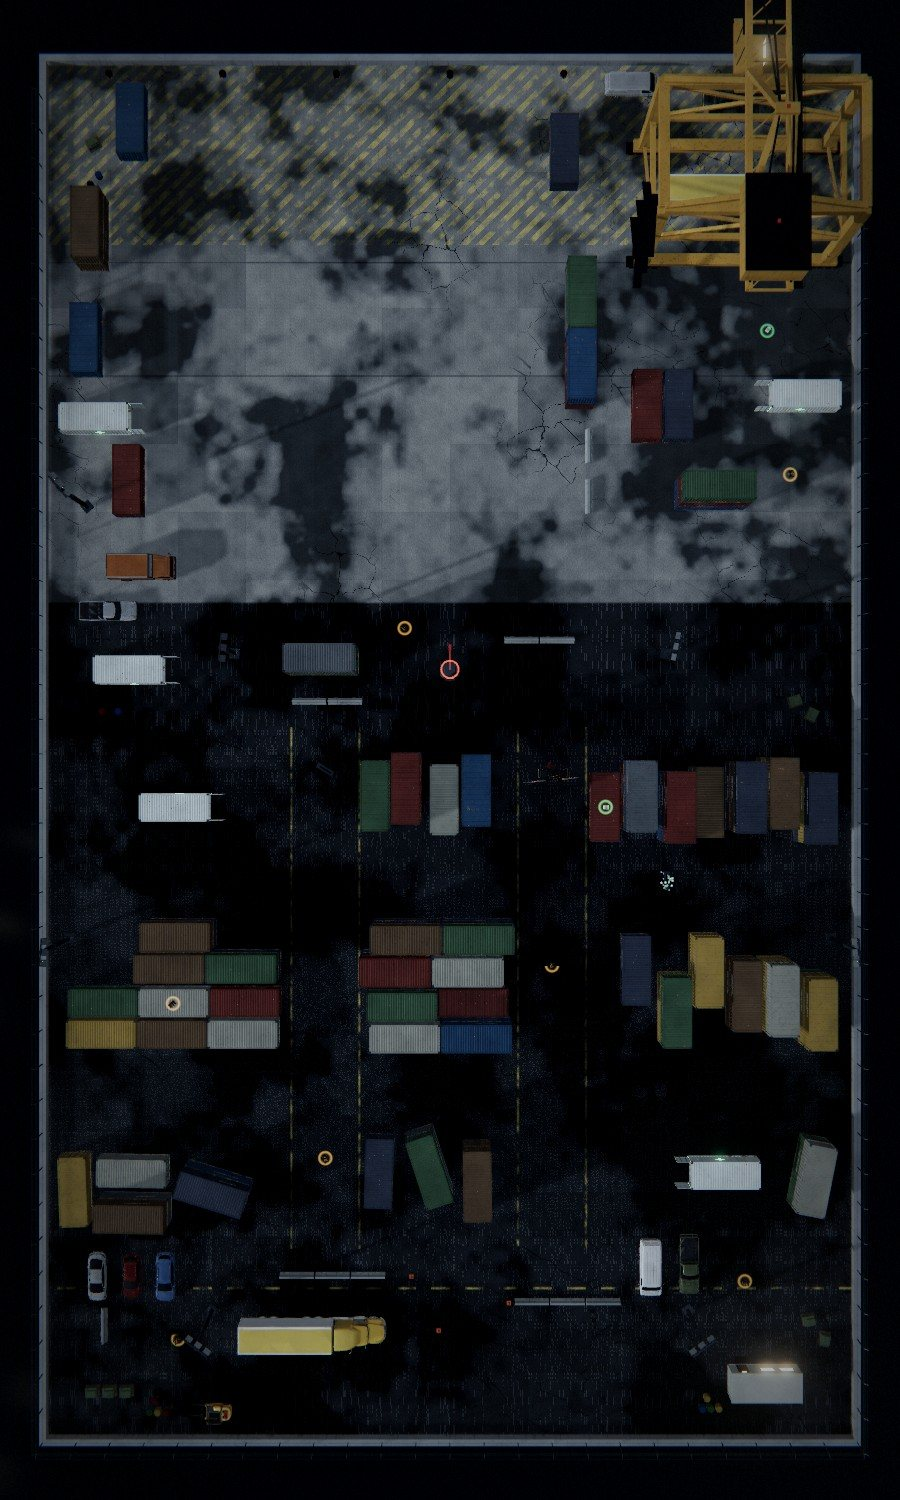
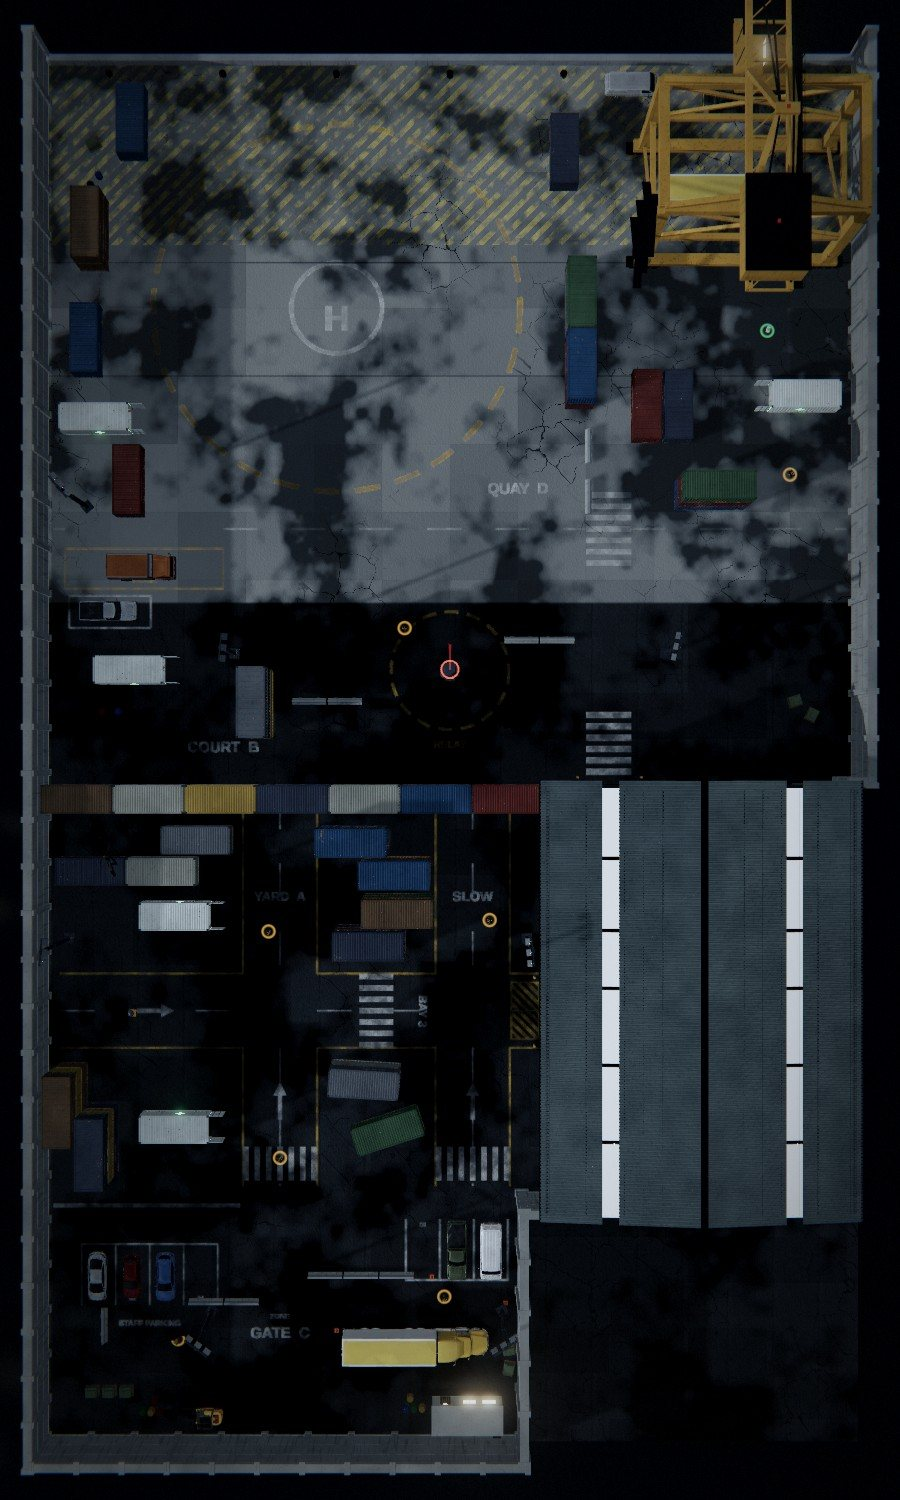
README: warehouse, L map, fences and gates, road markings, drones; new screenshots (low preset)
Claude-Session: https://claude.ai/code/session_019Cd4QJJQAj7MtqAtZQe3gZ

diff --git a/README.md b/README.md
@@ -27,22 +27,30 @@ Fight through the yard, bring down STINGER-7, the mecha scorpion that guards the
 
 ## Overview
 
-You are the only survivor of a container quay whose defence robots have been hijacked. The nuclear control system counts down from **08:00**. Fight through the container yard to the relay tower, where the mecha scorpion **STINGER-7** rises, hold **E** to activate the tower, then bring down the **Gunslinger Crab Mech**, a 10 m armoured boss with one huge health bar and four skills.
+You are the only survivor of a container quay whose defence robots have been hijacked. The nuclear control system counts down from **08:00**. Fight through the container yard and a steel warehouse to the relay tower, where the mecha scorpion **STINGER-7** rises, hold **E** to activate the tower, then bring down the **Gunslinger Crab Mech**, a 10 m armoured boss with one huge health bar and four skills.
 
-**Three.js + TypeScript + Vite + Rapier**: fixed 60 Hz simulation, procedural audio, no backend, no network at runtime. One small level (72 x 122 m) with modelled containers, wet ground with a planar reflection, a pale sun with one shadow map, an overcast sky, bloom and a cold film grade. Robots, vehicles and clutter are free CC0 or CC-BY models ([credits](CREDITS.md)). It is a **prototype**: nobody has play-tested a full run yet, so balance and real-GPU frame rate are unverified.
+**Three.js + TypeScript + Vite + Rapier**: fixed 60 Hz simulation, procedural audio, no backend, no network at runtime. One small L-shaped level (72 x 122 m, closed by a 7 m wall) with modelled containers, a two-storey warehouse, chain-link fences with swing gates, wet asphalt and concrete (CC0 scans) with painted road markings and a planar reflection, a pale sun with one shadow map, an overcast sky, bloom and a cold film grade. Robots, vehicles and clutter are free CC0 or CC-BY models ([credits](CREDITS.md)). It is a **prototype**: nobody has play-tested a full run yet, so balance and real-GPU frame rate are unverified.
 
 ## Screenshots
 
 <div align="center">
-  <img src="docs/media/map-overhead.jpg" alt="Overhead view of the whole quay: gate apron at the bottom, container yard, relay court, and the quay with the gantry crane at the top" width="460">
+  <img src="docs/media/map-overhead.jpg" alt="Overhead view of the L-shaped quay: gate apron and container yard on the west, the warehouse in the south-east, relay court and quay with the crane in the north" width="460">
 </div>
 
-<sub>Overhead, north at the top: gate apron (spawn, no robots), container yard, relay court around the tower, quay with the crane and boss arena. White boxes are the safe containers.</sub>
+<sub>Overhead, north at the top: the gate apron (spawn, car parks) and the container yard form the west leg of the L; the only way north is through the warehouse (bottom right); then the relay court (dashed ring around the tower) and the quay with the crane and the boss landing ring. White boxes are the safe containers.</sub>
 
 <table>
   <tr>
-    <td width="50%"><img src="docs/media/yard.jpg" alt="A lane through the container yard with a robot at the far end"><br><sub>Container yard lane</sub></td>
-    <td width="50%"><img src="docs/media/court.jpg" alt="Relay court with a small construction site"><br><sub>Relay court</sub></td>
+    <td width="50%"><img src="docs/media/warehouse-door.jpg" alt="Yard aisle with a zebra crossing leading to the warehouse roller door"><br><sub>The yard aisle ends at the warehouse roller door: the only way north</sub></td>
+    <td width="50%"><img src="docs/media/warehouse-inside.jpg" alt="Warehouse interior: concrete floor, steel stair to the mezzanine, pallet racks"><br><sub>Inside: concrete floor, stair to the mezzanine, pallet racks</sub></td>
+  </tr>
+  <tr>
+    <td width="50%"><img src="docs/media/warehouse-racks.jpg" alt="Pallet racks loaded with wrapped pallets, cartons and crates"><br><sub>Racks loaded with wrapped pallets, cartons and crates (25 CC0/CC-BY props)</sub></td>
+    <td width="50%"><img src="docs/media/warehouse-mezzanine.jpg" alt="Mezzanine with yellow railings and the glazed control office"><br><sub>Mezzanine and glazed office; windows overlook the relay court (drones come in if you camp here)</sub></td>
+  </tr>
+  <tr>
+    <td width="50%"><img src="docs/media/gate-open.jpg" alt="A chain-link gate swung open into the container yard; a container reads nhhthong@"><br><sub>Swing gates open when you touch them and close behind you</sub></td>
+    <td width="50%"><img src="docs/media/carpark.jpg" alt="Staff car park with painted bays and STAFF PARKING lettering"><br><sub>Road paint: parking bays, zebra crossings, lane lines, zone names</sub></td>
   </tr>
   <tr>
     <td width="50%"><img src="docs/media/biped.jpg" alt="Biped robot raising its claws"><br><sub><b>Biped robot</b>: crouches, leaps at where you stood, claws on landing</sub></td>
@@ -58,21 +66,21 @@ You are the only survivor of a container quay whose defence robots have been hij
   </tr>
 </table>
 
-<sub>Captured from the production build with software rendering (no GPU). Robot and crab shots: quality "low"; the others: "medium".</sub>
+<sub>Captured from the production build with software rendering (no GPU), quality "low".</sub>
 
 ## Gameplay
 
 ```
-Gate apron (empty) -> container yard -> relay court: STINGER-7, hold the tower
-           -> the Gunslinger Crab Mech drops onto the quay -> wear down its single HP pool -> victory
+Gate apron -> gate -> container yard -> warehouse (roller door, mezzanine, back door) -> relay court:
+STINGER-7, hold the tower -> gate -> the Gunslinger Crab Mech drops onto the quay -> victory
 ```
 
 - **Countdown** 8 minutes; zero is a failure. **Tower**: hold `E` for 5 s within range. Death respawns at the last checkpoint; the countdown keeps running.
-- **Robots** (roster of 22, streamed in as you walk, 10 alive at most): 5 Medium Mech Strikers (3-round bursts, an AOE rocket every 6 to 9 s), 4 Biped robots (leap and claw; double jump dodges the leap), 6 Spot dogs, 4 Bomber Ducks (3-2-1 explosion), 3 cyber samurai (300 HP elites: cleave, spinning naginata, lightning dashes).
+- **Robots** (roster of 22 on foot plus 4 flying drones, streamed in as you walk, 10 alive at most; drones also come in through the windows if you camp on the mezzanine): 5 Medium Mech Strikers (3-round bursts, an AOE rocket every 6 to 9 s), 4 Biped robots (leap and claw; double jump dodges the leap), 6 Spot dogs, 4 Bomber Ducks (3-2-1 explosion), 3 cyber samurai (300 HP elites: cleave, spinning naginata, lightning dashes).
 - **STINGER-7** (1300 HP): charge, venom shot, tail slam; raises a hexagon shield under sustained fire.
 - **Gunslinger Crab Mech** (5800 HP): carpet bombs (AOE), dragonfly drones, a 360 degree spin up close, a slow four-way laser that rotates 180 degrees.
-- **Supplies**: 11 ammo crates, 3 medkits; five safe containers heal 12 HP/s and robots cannot enter.
-- Numbers are starting values and **not** balanced by play-testing.
+- **Supplies**: 12 ammo crates, 3 medkits; five safe containers heal 12 HP/s and robots cannot enter.
+- Fences: touch a gate to open it; it closes about 5 s after everyone has left. Numbers are starting values and **not** balanced by play-testing.
 
 | Action | Input |
 |---|---|
@@ -97,7 +105,7 @@ npm run dev          # http://localhost:5173/
 
 Verify with `npm run typecheck && npm test && npm run build` (also run by CI). Other scripts: `npm run preview`, `smoke`, `offline`, `leakcheck`, `bench` (see `package.json`).
 
-**URL parameters** (dev and testing only): `?autostart` skips the menu, `?sandbox` small test scene (`&enemies=army,spot,duck,biped` or `none`), `?debug` overlay, `?colliders`, `?countdown=SECONDS`, `?boss` / `?bossphase=core`, `?viewmodel=procedural`, `?bench=SECONDS`.
+**URL parameters** (dev and testing only): `?autostart` skips the menu, `?sandbox` small test scene (`&enemies=army,spot,duck,biped,drone` or `none`), `?debug` overlay, `?colliders`, `?countdown=SECONDS`, `?boss` / `?bossphase=core`, `?viewmodel=procedural`, `?bench=SECONDS`.
 
 **GitHub Pages**: `.github/workflows/pages.yml` runs typecheck, unit tests and build on every push and PR and deploys `main` to the [live demo](https://nhhthong.github.io/nuclear-harbor/) (Settings, Pages, Source: GitHub Actions). **Offline**: a service worker precaches the build; open once online, then it works offline ([`docs/OFFLINE.md`](docs/OFFLINE.md)).
 
@@ -105,14 +113,14 @@ Verify with `npm run typecheck && npm test && npm run build` (also run by CI). O
 
 `src/` modules are registered in `src/modules.ts` (init order = update order) and talk through a typed event bus; every gameplay number lives in `src/config/tunables.ts` or a module `tunables.ts`.
 
-`core` (loop, renderer, input, events) · `config` · `physics` (Rapier) · `world` · `structures` (crane, props, vehicles) · `shelters` · `player` · `weapon` · `combat` · `scorpion` · `enemies` (Striker, Biped, Spot, Duck, samurai, streaming) · `boss` (crab, drones) · `objectives` · `pickups` · `flow` · `vfx` · `audio` · `ui` · `debug` · `offline`
+`core` (loop, renderer, input, events) · `config` · `physics` (Rapier) · `world` · `structures` (crane, warehouse, props, vehicles, fences and gates) · `shelters` · `player` · `weapon` · `combat` · `scorpion` · `enemies` (Striker, Biped, Spot, Duck, samurai, drone, streaming) · `boss` (crab, drones) · `objectives` · `pickups` · `flow` · `vfx` · `audio` · `ui` · `debug` · `offline`
 
-Budgets: 60 FPS desktop target, at most 350 draw calls (about 100 to 180 measured on software GL), about 5.3 MB of code plus about 14 MB of models. Details: [`docs/PERFORMANCE.md`](docs/PERFORMANCE.md).
+Budgets: 60 FPS desktop target, at most 350 draw calls (about 55 to 150 measured on software GL), about 5.3 MB of code plus about 16 MB of models and 0.9 MB of ground textures. Details: [`docs/PERFORMANCE.md`](docs/PERFORMANCE.md).
 
 ## Status and limitations
 
-- Verified: `tsc`, **513 unit tests**, build, CI. Not verified: a full run, balance, frame rate on a real GPU. `tests/e2e/` scripts are stale and `smoke` was not re-run after the reworks.
-- The Bomber Duck is primitive-built and reads as low-poly (the scorpion is an authored model with a procedural fallback; its legs swing rigidly about the hips, so feet slide a little); the crab can show a pale orange wash while a skill telegraphs; the in-game Restart reloads the page.
+- Verified: `tsc`, **612 unit tests**, build, CI, scripted browser checks on the low preset. Not verified: a full run, balance, frame rate on a real GPU. `tests/e2e/` scripts are stale and `smoke` was not re-run after the reworks.
+- A drone charging a shot right next to the camera shows a large pale glow; the Bomber Duck is primitive-built and reads as low-poly (the scorpion is an authored model with a procedural fallback; its legs swing rigidly about the hips, so feet slide a little); the crab can show a pale orange wash while a skill telegraphs; the in-game Restart reloads the page.
 - Differences from the original design: [`docs/DEVIATIONS.md`](docs/DEVIATIONS.md). Architecture and conventions: [`docs/PLAN.md`](docs/PLAN.md). Assets: [`docs/ASSETS.md`](docs/ASSETS.md). AI session rules: [`CLAUDE.md`](CLAUDE.md).
 
 ## Contributing
